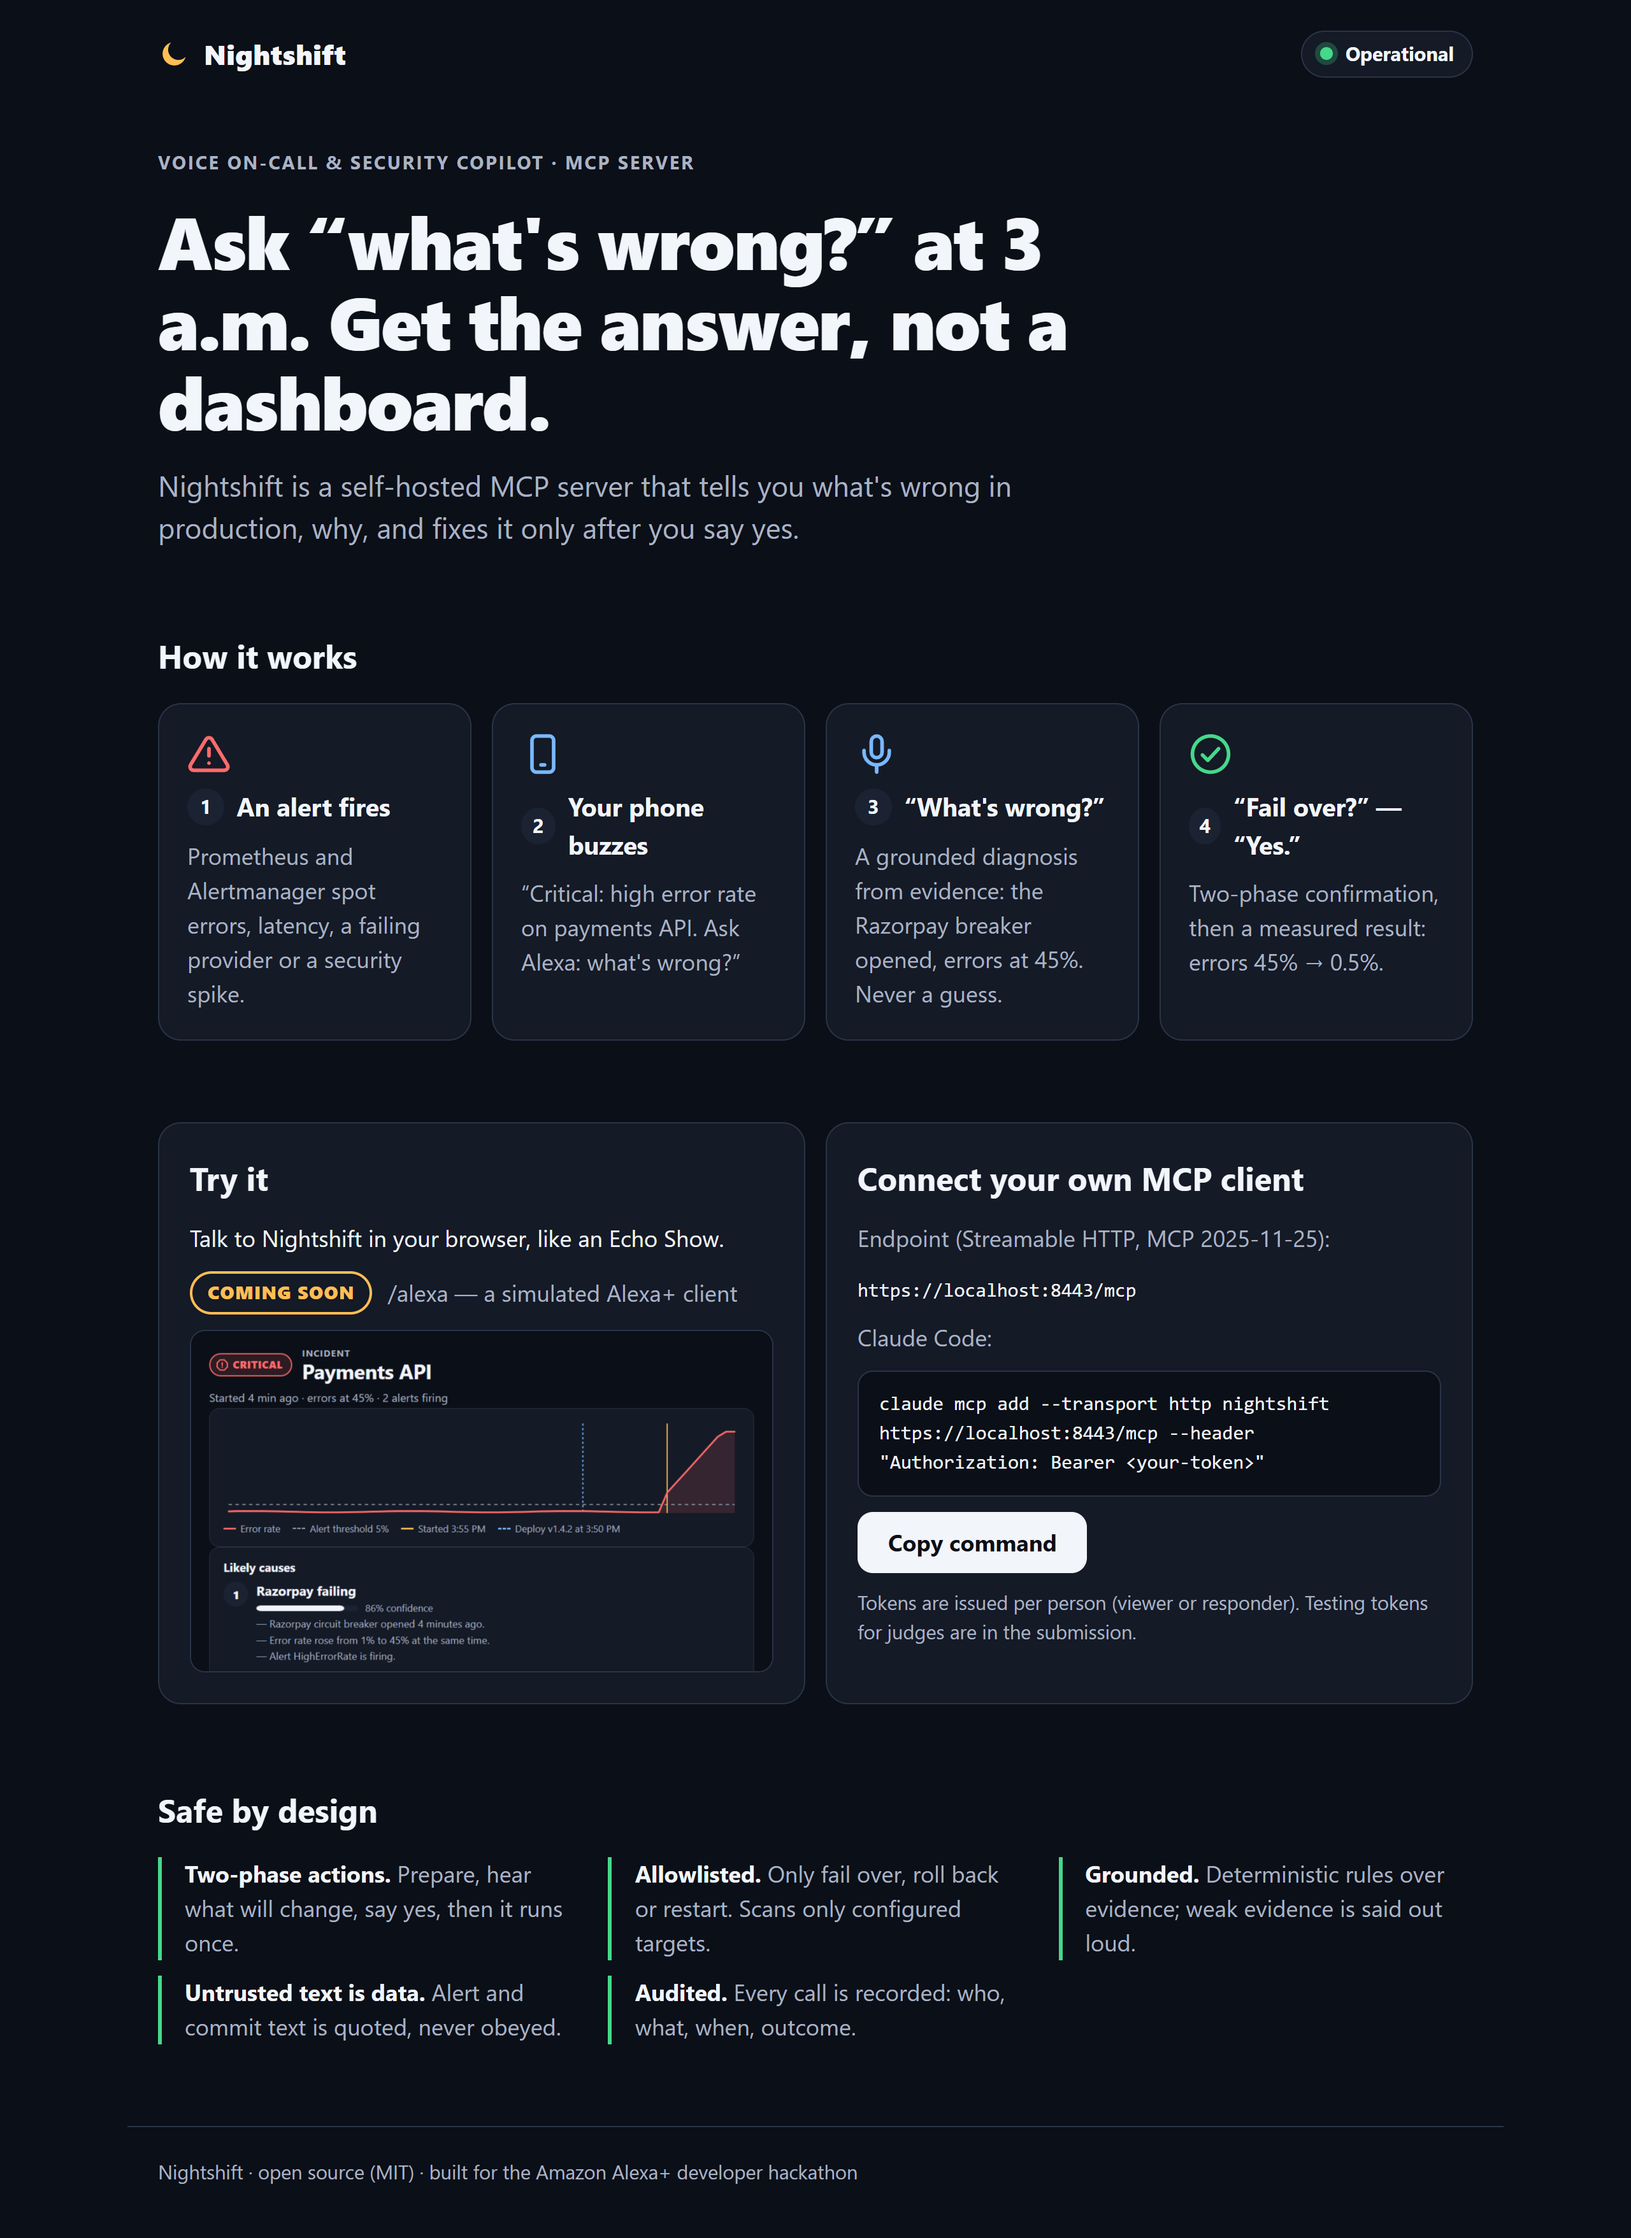
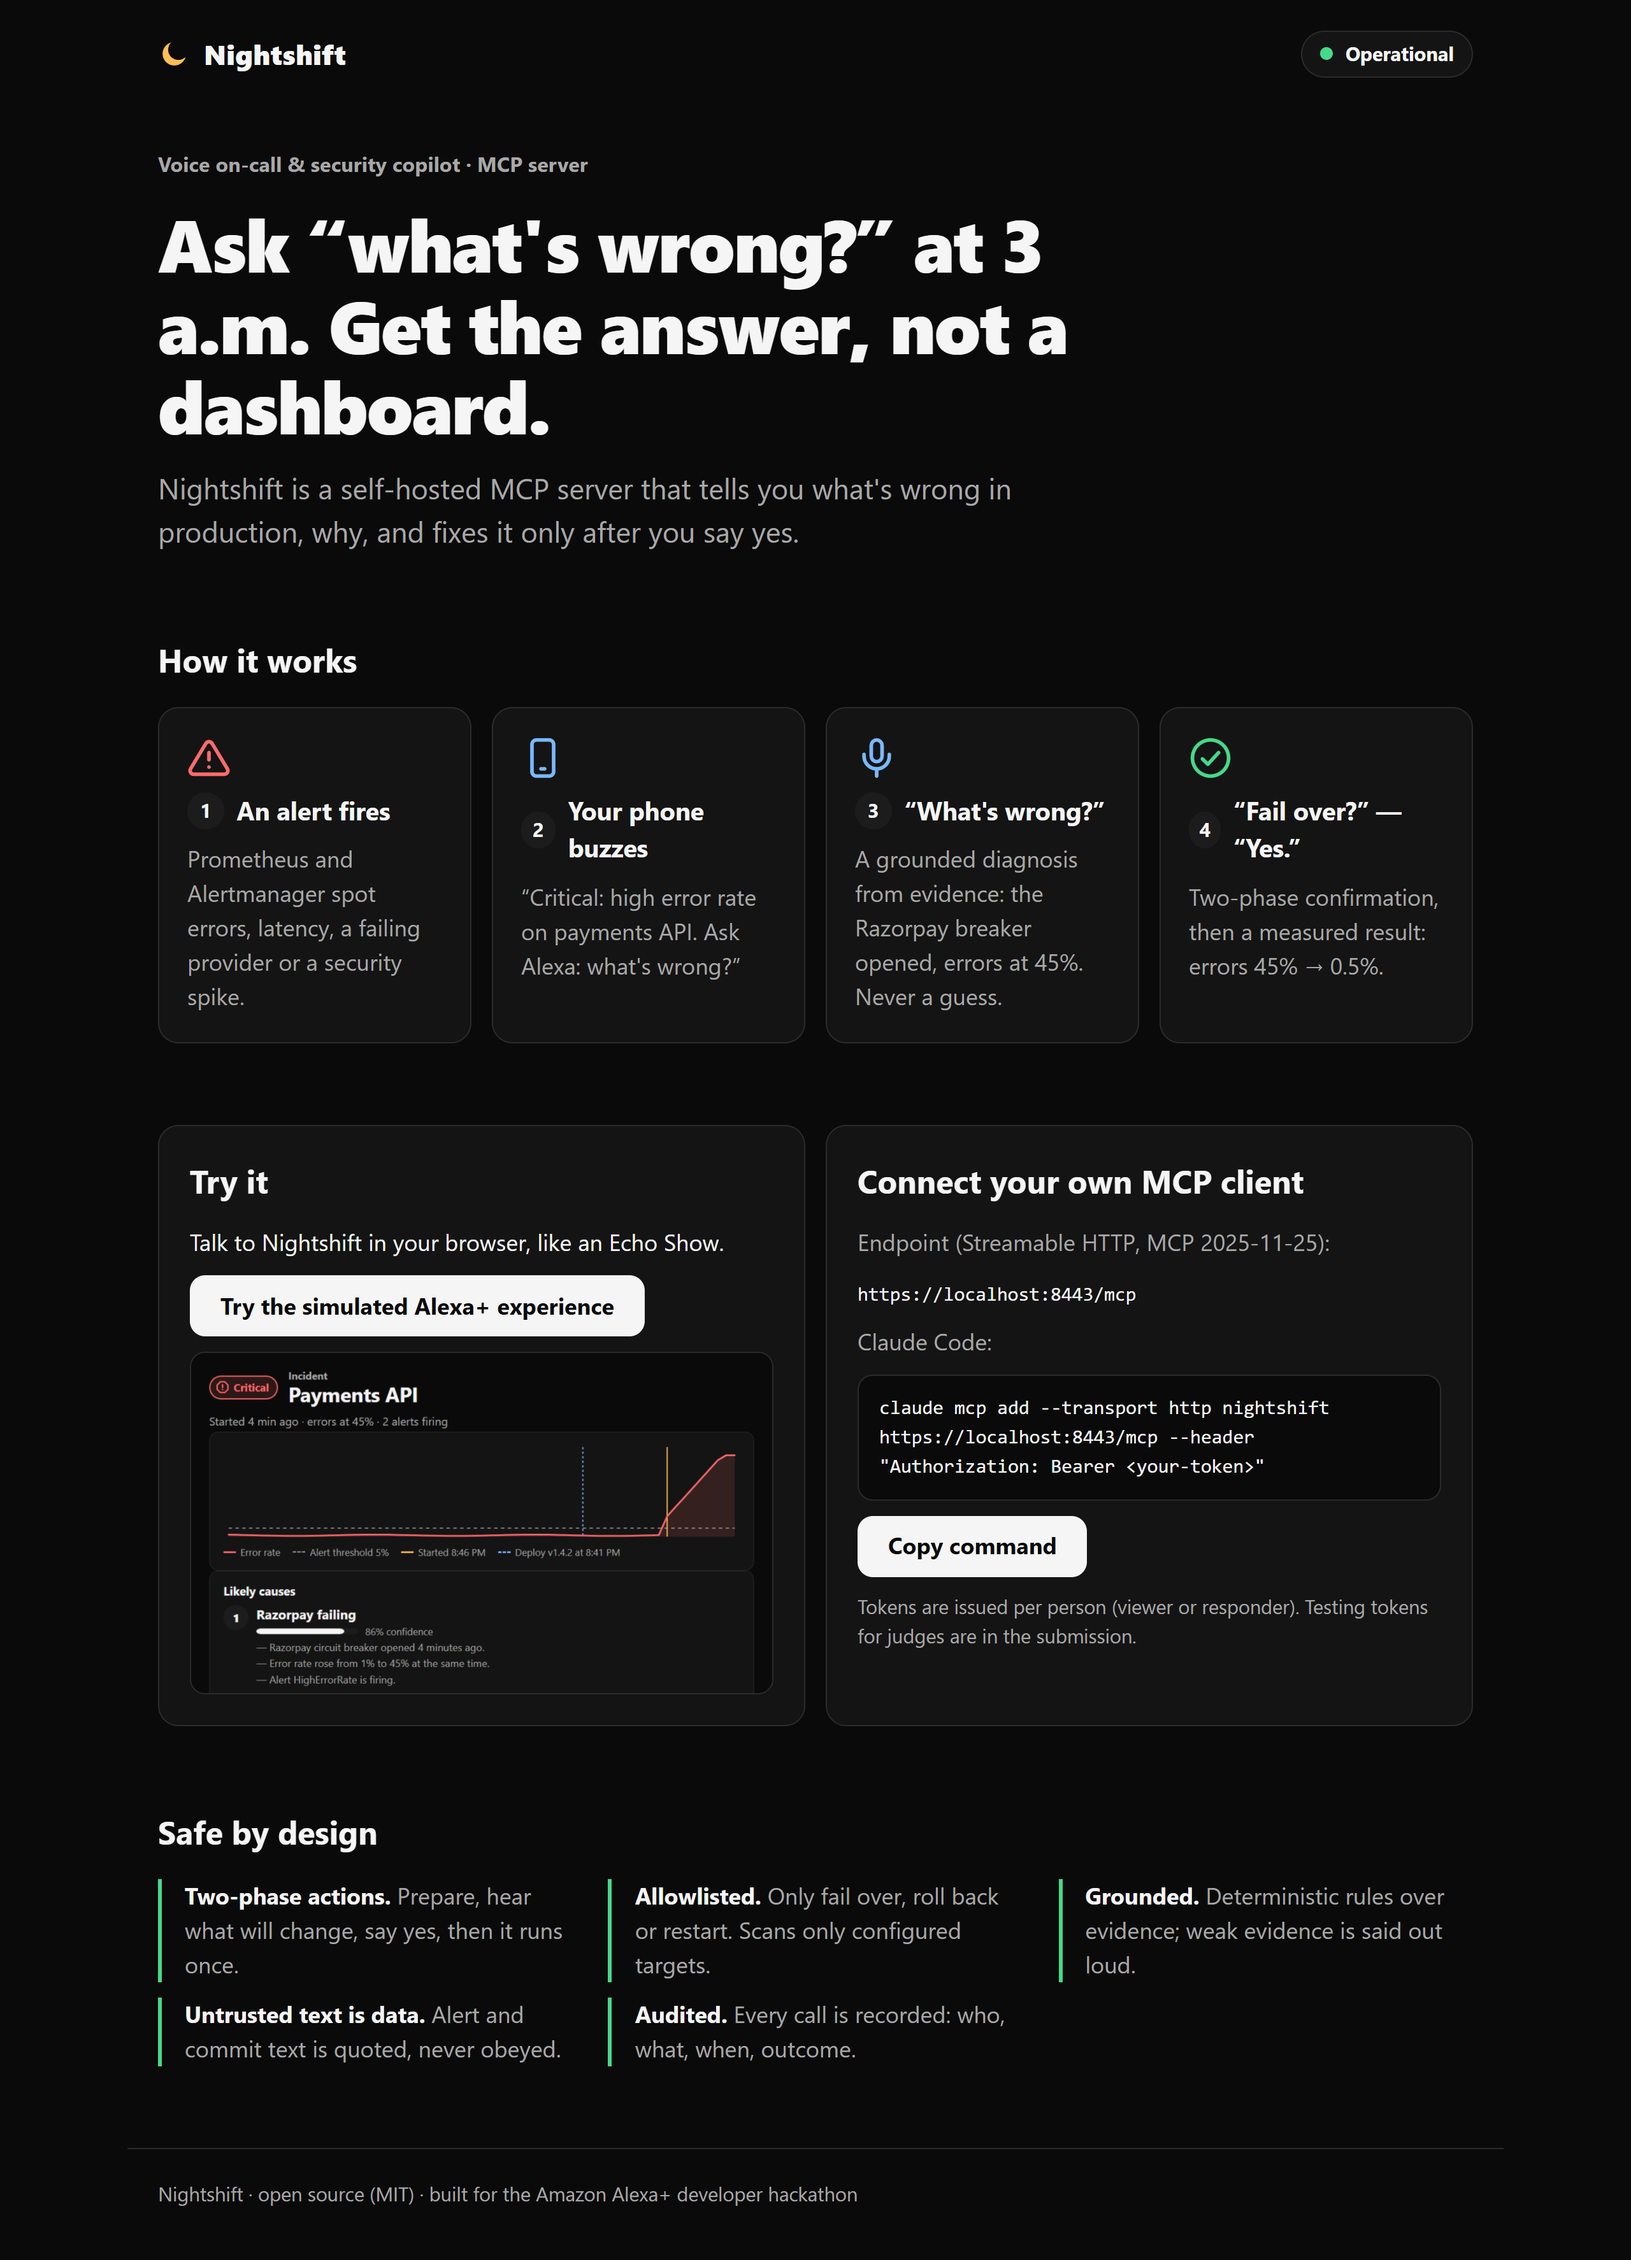
docs(landing): link to /alexa instead of "Coming soon"
The Try it panel now has a "Try the simulated Alexa+ experience" link
(styled like the Copy command button; the unused badge styles are removed).
landing.png regenerated through Caddy (LANDING_URL=https://localhost:8443):
no CSP violations, connect command uses the page origin. Nightshift's
security-headers rules find nothing on the landing page or /healthz.

diff --git a/infra/caddy/site/index.html b/infra/caddy/site/index.html
@@ -85,9 +85,8 @@
         <article class="panel">
           <h2>Try it</h2>
           <p>Talk to Nightshift in your browser, like an Echo Show.</p>
-          <p class="soon">
-            <span class="badge">Coming soon</span>
-            <span class="muted">/alexa — a simulated Alexa+ client</span>
+          <p class="try">
+            <a class="btn btn-link" href="/alexa">Try the simulated Alexa+ experience</a>
           </p>
           <img
             class="preview"

diff --git a/infra/caddy/site/site.css b/infra/caddy/site/site.css
@@ -212,19 +212,11 @@ h2 {
 .small {
   font-size: 0.85rem;
 }
-.soon {
-  display: flex;
-  flex-wrap: wrap;
+/* The /alexa link reuses .btn; an anchor needs its own box and no underline. */
+.btn-link {
+  display: inline-flex;
   align-items: center;
-  gap: 12px;
-}
-.badge {
-  padding: 4px 12px;
-  border-radius: 999px;
-  border: 2px solid var(--warn);
-  color: var(--warn);
-  font-size: 0.85rem;
-  font-weight: 700;
+  text-decoration: none;
 }
 code,
 pre {
